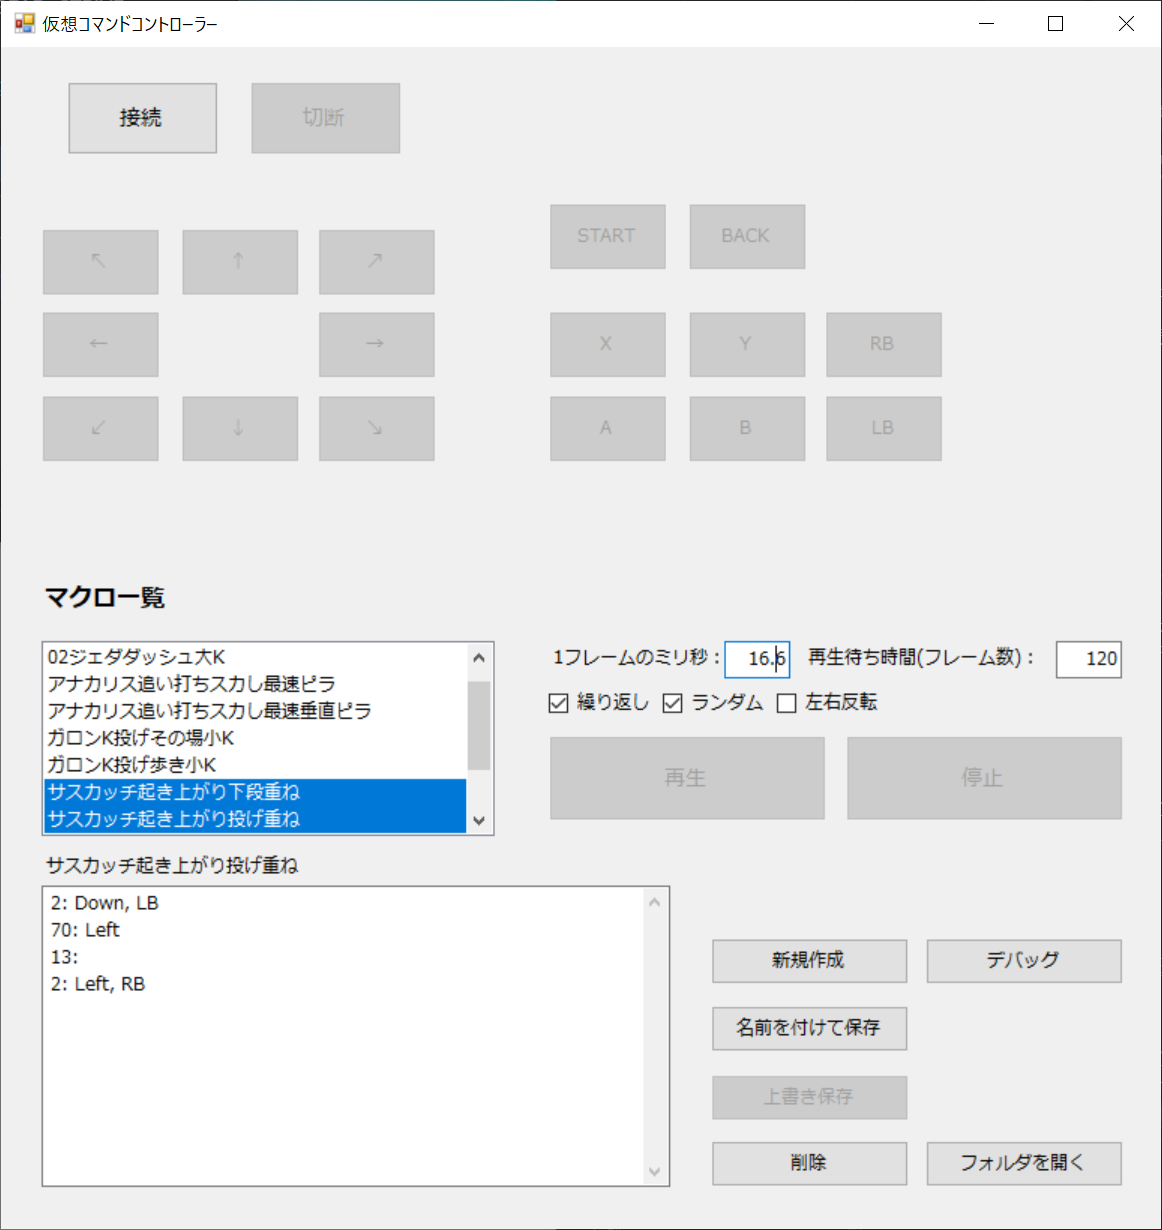
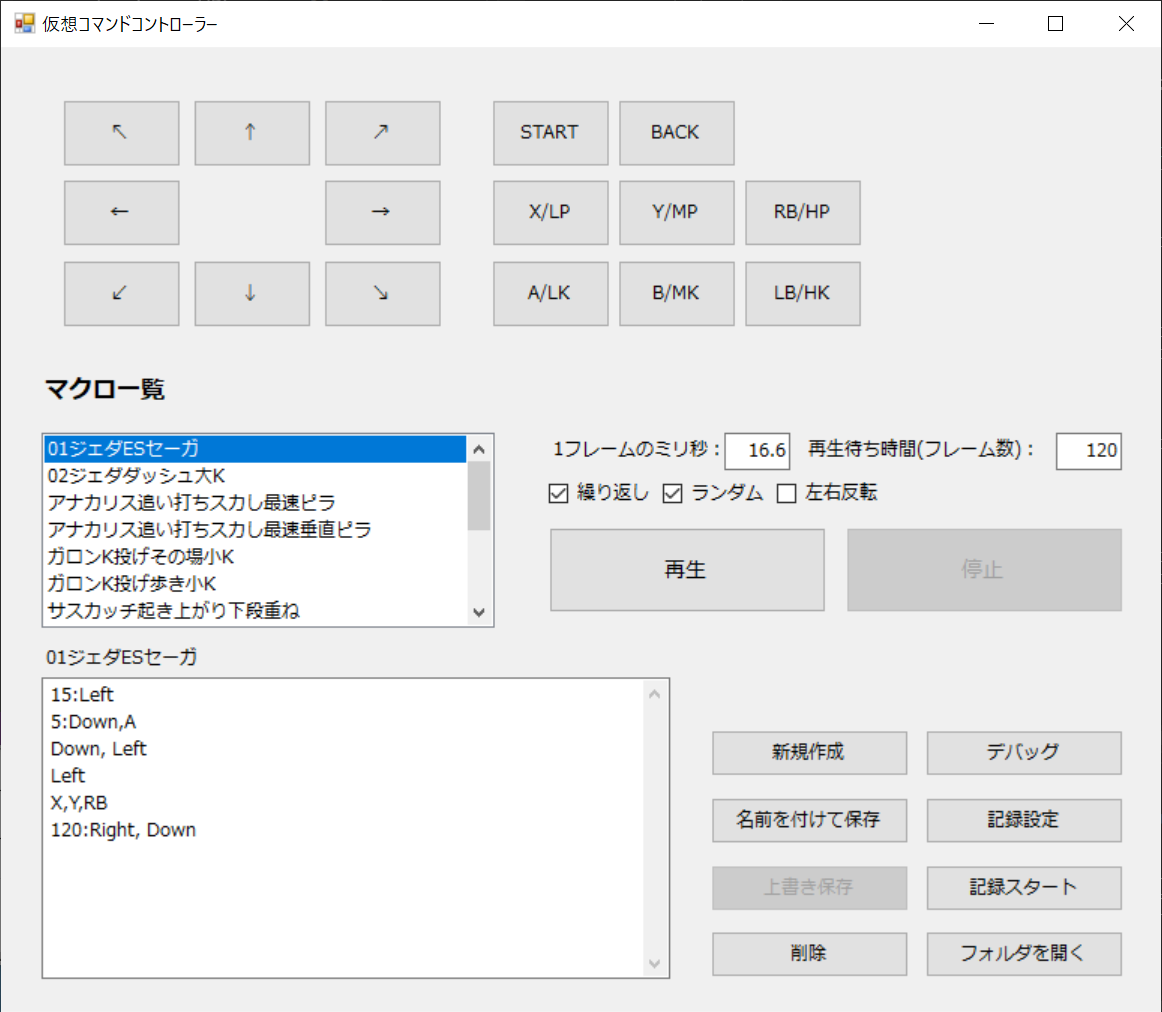
トリガー機能を追加

diff --git a/RecordSettingsForm.cs b/RecordSettingsForm.cs
@@ -32,10 +32,14 @@ namespace VirtualController
         private const string ConfigFilePath = "RecordSettingsConfig.json";
 
         // 変更後: private class RecordSettingsConfig
+        [DataContract]
         public class RecordSettingsConfig
         {
+            [DataMember]
             public Guid ControllerGuid;
+            [DataMember]
             public Dictionary<string, int?> ButtonIndices = new Dictionary<string, int?>();
+            [DataMember]
             public Dictionary<string, int?> ZValues = new Dictionary<string, int?>();
         }
 
@@ -45,8 +49,6 @@ namespace VirtualController
             SetActionButtonsEnabled(false);
             OKButton.Enabled = false;
             LoadPhysicalControllers();
-            ControllerComboBox.SelectedIndexChanged += ControllerComboBox_SelectedIndexChanged;
-            OKButton.Click += OKButton_Click;
             LoadConfig(); // 追加: 設定ファイルから復元
         }
 
@@ -104,7 +106,7 @@ namespace VirtualController
             LogTextBox.AppendText($"[{DateTime.Now:HH:mm:ss}] コントローラー「{device.InstanceName}」に接続しました。\r\n");
 
             var timer = new Timer();
-            timer.Interval = 100;
+            timer.Interval = 1000 / 60 * 2; // 2フレームに1回
             timer.Tick += (s, ev) =>
             {
                 try
@@ -212,8 +214,12 @@ namespace VirtualController
                     {
                         assignedButtonIndices[kvp.Key] = null;
                         assignedZValues[kvp.Key] = null;
-                        // ラベルも未割り当て表示に
-                        var label = Controls.OfType<Label>().FirstOrDefault(l => l.Name == kvp.Key.Name.Replace("Button", "Label"));
+                        Control labelParent;
+                        if (kvp.Key == F1Button)
+                            labelParent = OptionGroupBox;
+                        else
+                            labelParent = this;
+                        var label = labelParent.Controls.OfType<Label>().FirstOrDefault(l => l.Name == kvp.Key.Name.Replace("Button", "Label"));
                         if (label != null) label.Text = "未割り当て";
                     }
                 }
@@ -227,7 +233,12 @@ namespace VirtualController
                     {
                         assignedButtonIndices[kvp.Key] = null;
                         assignedZValues[kvp.Key] = null;
-                        var label = Controls.OfType<Label>().FirstOrDefault(l => l.Name == kvp.Key.Name.Replace("Button", "Label"));
+                        Control labelParent;
+                        if (kvp.Key == F1Button)
+                            labelParent = OptionGroupBox;
+                        else
+                            labelParent = this;
+                        var label = labelParent.Controls.OfType<Label>().FirstOrDefault(l => l.Name == kvp.Key.Name.Replace("Button", "Label"));
                         if (label != null) label.Text = "未割り当て";
                     }
                 }
@@ -236,7 +247,14 @@ namespace VirtualController
             if (listeningButton != null)
             {
                 listeningButton.BackColor = SystemColors.Control;
-                listeningLabel.Text = displayText;
+                Control labelParent;
+                if (listeningButton == F1Button)
+                    labelParent = OptionGroupBox;
+                else
+                    labelParent = this;
+                var label = labelParent.Controls.OfType<Label>().FirstOrDefault(l => l.Name == listeningButton.Name.Replace("Button", "Label"));
+                if (label != null)
+                    label.Text = displayText;
                 assignedButtonIndices[listeningButton] = buttonIndex;
                 assignedZValues[listeningButton] = zValue;
             }
@@ -307,7 +325,10 @@ namespace VirtualController
             RecordSettingsConfig config;
             using (var fs = new FileStream(ConfigFilePath, FileMode.Open))
             {
-                var serializer = new DataContractJsonSerializer(typeof(RecordSettingsConfig));
+                var serializer = new DataContractJsonSerializer(
+                    typeof(RecordSettingsConfig),
+                    new DataContractJsonSerializerSettings { UseSimpleDictionaryFormat = true }
+                );
                 config = (RecordSettingsConfig)serializer.ReadObject(fs);
             }
 
@@ -325,7 +346,15 @@ namespace VirtualController
             {
                 assignedButtonIndices[btn] = config.ButtonIndices.ContainsKey(btn.Name) ? config.ButtonIndices[btn.Name] : null;
                 assignedZValues[btn] = config.ZValues.ContainsKey(btn.Name) ? config.ZValues[btn.Name] : null;
-                var label = Controls.OfType<Label>().FirstOrDefault(l => l.Name == btn.Name.Replace("Button", "Label"));
+
+                System.Diagnostics.Debug.WriteLine(
+                    $"ボタン: {btn.Name}, ButtonIndex: {assignedButtonIndices[btn]}, ZValue: {assignedZValues[btn]}"
+                );
+
+                Control labelParent = btn == F1Button ? (Control)OptionGroupBox : (Control)this;
+                var labelName = btn.Name.Replace("Button", "Label");
+                var label = labelParent.Controls.OfType<Label>().FirstOrDefault(l => l.Name == labelName);
+
                 if (label != null)
                 {
                     if (assignedButtonIndices[btn] != null)

diff --git a/MainForm.cs b/MainForm.cs
@@ -37,13 +37,12 @@ namespace VirtualController
         private MacroPlayer macroPlayer;
         private SharpDX.DirectInput.DirectInput directInput;
         private SharpDX.DirectInput.Joystick currentJoystick;
+        private RecordSettingsForm.RecordSettingsConfig recordConfig;
 
         // MainForm クラス内フィールド追加
         private bool isRecording = false;
         private List<Dictionary<string, string>> recordedFrames = new List<Dictionary<string, string>>();
-        private System.Windows.Forms.Timer recordTimer;
         private DateTime recordStartTime;
-        private RecordSettingsForm.RecordSettingsConfig recordConfig;
 
         /// <summary>
         /// 必要なデザイナー変数です。
@@ -77,12 +76,14 @@ namespace VirtualController
             LoadMacroList();
         }
 
+        // --- 1. 起動時（Form1_Load）で設定ファイルを読み込む ---
         private void Form1_Load(object sender, EventArgs e)
         {
             // --- Form1_Loadでコントローラ操作ボタンを有効化 ---
             this.SetControllerButtonsEnabled(true); // ← 常に有効化
             PlayMacroButton.Text = "再生";
             LoadMacroSettings();
+            recordConfig = LoadRecordSettingsConfig(); // ← 追加
             if (IsRecordSettingsValid())
             {
                 ConnectRecordController();
@@ -134,6 +135,7 @@ namespace VirtualController
                 OverwriteMacro();
             }
 
+
             // UI制御
             PlayMacroButton.Enabled = false;
             PlayMacroButton.Text = "再生中...";
@@ -174,7 +176,9 @@ namespace VirtualController
                         isRandom,
                         XAxisReverseCheckBox.Checked,
                         frame,
-                        token
+                        token,
+                        currentJoystick,
+                        recordConfig
                     );
                 }
                 finally
@@ -898,6 +902,7 @@ namespace VirtualController
                 var result = dlg.ShowDialog(this);
                 if (result == DialogResult.OK)
                 {
+                    recordConfig = LoadRecordSettingsConfig(); // ← 追加
                     if (IsRecordSettingsValid())
                     {
                         ConnectRecordController();
@@ -995,18 +1000,7 @@ namespace VirtualController
                     MessageBox.Show("記録設定が不正です。", "エラー", MessageBoxButtons.OK, MessageBoxIcon.Error);
                     return;
                 }
-
-                // 設定ファイル読み込み
-                var configPath = Path.Combine(Application.StartupPath, "RecordSettingsConfig.json");
-                using (var fs = new FileStream(configPath, FileMode.Open))
-                {
-                    var serializer = new System.Runtime.Serialization.Json.DataContractJsonSerializer(
-                        typeof(RecordSettingsForm.RecordSettingsConfig),
-                        new System.Runtime.Serialization.Json.DataContractJsonSerializerSettings { UseSimpleDictionaryFormat = true }
-                    );
-                    recordConfig = (RecordSettingsForm.RecordSettingsConfig)serializer.ReadObject(fs);
-                }
-
+                // recordConfig = LoadRecordSettingsConfig(); ← 削除
                 recordedFrames.Clear();
                 recordStartTime = DateTime.Now;
                 int frameMs = 16;
@@ -1242,6 +1236,21 @@ namespace VirtualController
                     LoadMacroList();
                     MessageBox.Show("保存しました。", "保存完了", MessageBoxButtons.OK, MessageBoxIcon.Information);
                 }
+            }
+        }
+
+        // --- 1. 設定ファイル読み込み関数を追加 ---
+        private RecordSettingsForm.RecordSettingsConfig LoadRecordSettingsConfig()
+        {
+            var configPath = Path.Combine(Application.StartupPath, "RecordSettingsConfig.json");
+            if (!File.Exists(configPath)) return null;
+            using (var fs = new FileStream(configPath, FileMode.Open))
+            {
+                var serializer = new System.Runtime.Serialization.Json.DataContractJsonSerializer(
+                    typeof(RecordSettingsForm.RecordSettingsConfig),
+                    new System.Runtime.Serialization.Json.DataContractJsonSerializerSettings { UseSimpleDictionaryFormat = true }
+                );
+                return (RecordSettingsForm.RecordSettingsConfig)serializer.ReadObject(fs);
             }
         }
     }

diff --git a/RecordSettingsForm.Designer.cs b/RecordSettingsForm.Designer.cs
@@ -208,6 +208,7 @@
             this.OKButton.TabIndex = 29;
             this.OKButton.Text = "設定完了";
             this.OKButton.UseVisualStyleBackColor = true;
+            this.OKButton.Click += new System.EventHandler(this.OKButton_Click);;
             // 
             // ControllerComboBox
             // 
@@ -217,6 +218,7 @@
             this.ControllerComboBox.Name = "ControllerComboBox";
             this.ControllerComboBox.Size = new System.Drawing.Size(998, 41);
             this.ControllerComboBox.TabIndex = 31;
+            this.ControllerComboBox.SelectedIndexChanged += new System.EventHandler(this.ControllerComboBox_SelectedIndexChanged);
             // 
             // LogTextBox
             // 
@@ -269,6 +271,7 @@
             this.F1Button.TabIndex = 35;
             this.F1Button.Text = "F1";
             this.F1Button.UseVisualStyleBackColor = true;
+            this.F1Button.Click += new System.EventHandler(this.F1Button_Click);
             // 
             // RecordSettingsForm
             // 

diff --git a/README.md b/README.md
@@ -3,9 +3,9 @@
 ## 概要
 仮想コマンドコントローラーは、PC上で仮想Xbox 360コントローラーを操作し、マクロ再生やボタン入力を自動化できるWindowsアプリケーションです。
 
-Steam版のファイコレ等のトレモ機能を補完するために作成しました。作者はヴァンパイアセイヴァーで利用していますが、他のゲームにも応用は可能かと思います。
+Steam版のファイコレ等のトレモ機能を補完するために作成しました。作者はヴァンパイアセイヴァーで利用していますが、他のゲームにも応用は可能かと思います（理論上はコントローラーを使うものなら何でも）。
 
-ただし、自分用に作成したものなのであまり細かいサポートや対応は期待しないでください。ご自身で試してみて、使える方に利用を推奨します。
+ただし、自分用に作成したものなので、かなり適当な部分もあり、あまり細かいサポートや対応は期待しないでください。ご自身で試してみて、使える方に利用を推奨します。
 
 ---
 
@@ -20,10 +20,11 @@ Steam版のファイコレ等のトレモ機能を補完するために作成し
 - マクロファイルによるコントローラー操作の自動再生
 - マクロ編集・保存・削除
 - 複数マクロの管理・選択
-- コントローラーの接続・切断
 - UIからの手動ボタン・スティック操作
 - マクロ再生時の繰り返し・ランダム再生・待機フレーム指定
 - 設定の保存・復元（フレーム速度、待機、選択マクロ等）
+- マクロ記録機能
+- マクロ条件付き再生機能
 
 ---
 
@@ -44,16 +45,16 @@ Steam版のファイコレ等のトレモ機能を補完するために作成し
 
 ---
 
-## 使い方
+## 基本的な使い方
 
 1. ゲームをトレーニングモードで起動し、「DUMMY OPTION」にて「アクション」を「PLAYER操作」にします。
 <img src="docs/images/setting_01_action.png" alt="アクション" width="400">
 
-2. 仮想コマンドコントローラーを移動し、「接続」ボタンを押して仮想コントローラーを接続します。
-<img src="docs/images/setting_02_connect.png" alt="接続" width="400">
+2. 仮想コマンドコントローラーを起動します。
+<img src="docs/images/setting_02_connect.png" alt="起動" width="400">
 
 3. 画面上部のコントローラーUIで、ボタンや方向キーなどを操作するとゲーム内で正常に接続されたアナウンスが出ます。
-<img src="docs/images/setting_03_connect2.png" alt="接続2" width="400">
+<img src="docs/images/setting_03_connect2.png" alt="接続" width="400">
 
 4. 画面上部のコントローラーUIで、「BACK」ボタンを押して「CONTROLLER SETTINGS」を開きボタンを割り当ててください。
 <img src="docs/images/setting_04_key.png" alt="ボタン設定" width="400">
@@ -65,6 +66,18 @@ Steam版のファイコレ等のトレモ機能を補完するために作成し
 <img src="docs/images/setting_05_play.png" alt="再生" width="400">
 
 ---
+
+## マクロの作成方法
+
+手動で作成する方法と、マクロ記録機能を使う方法があります。マクロ記録機能を使ってベースを作成し、手動で微調整するのが楽かと思います。
+
+1. 画面右下の「記録設定」ボタンを押すと、記録設定画面が開きます。
+<img src="docs/images/setting_06_record.png" alt="記録" width="400">
+
+2. 記録設定画面の案内に従って、別のコントローラーを選択して、各種ボタンを割り当ててください。
+※F1キーは、トレモの位置リセットボタンを割り当てると便利です。
+
+3. 設定が終わったら、「記録スタート」ボタンを押し、ゲームに戻って設定したコントローラーで操作してください。再度ボタンを押すと記録が停止します。
 
 ## マクロファイル仕様
 
@@ -80,7 +93,7 @@ Steam版のファイコレ等のトレモ機能を補完するために作成し
 - `#`から始まる行はコメントとして無視されます（行末コメントは非対応です）
 - ゲーム内のフレームと同期しているわけではないので、1フレームで定義すると認識されない場合があるので、2フレーム以上で指定することを推奨します。
 - 現状はマクロの作成は非常に面倒です。前後1フレームずれることを意識しつつ、うまく動くかどうか試行錯誤してください（フレームの知識も必要です）。
-
+- 特殊な仕様としてトリガー機能があります。次のセクションで詳しく説明します。
 
 例）サスカッチの大足でダウンさせて起き上がりに投げをするマクロ（キャラごとに起き上がりスピードが違うので待ちフレームは調整する必要があります。例はザベル相手）
 ```
@@ -92,19 +105,77 @@ Steam版のファイコレ等のトレモ機能を補完するために作成し
 
 ---
 
+## マクロファイル仕様（トリガー機能）β版
+
+特定のキーをトリガーにしてマクロを再生することができます（この機能はβ版のため仕様が変更される可能性があります）。
+マクロの先頭にコメントで `TRIGGER:`を追加してキーを指定します。
+
+```
+#TRIGGER: HK
+40:
+2: Left
+2: Down
+2: Down, Left, LP
+```
+
+このマクロは、プレイヤー側が大キックを押したら起き上がりに昇竜を出すというものです（フレームは適当）。
+
+
+また、`TRIGGERWAIT:` でトリガー待機中にガードを入れておくこともできますので、ガード後に最速で技を出すといった使い方も可能です。
+
+```
+#TRIGGER: LP
+#TRIGGERWAIT: Down, Right
+10:
+2: HP
+```
+
+応用として位置リセットボタンをトリガーにして、特定の位置からの行動を自動化することもできます。
+
+
+例）左画面端にリセットしたらダミーは前ジャンプして位置を入れ替える
+```
+#TRIGGER: F1
+2:
+2: Up, Right
+34:
+20:Left
+```
+
+上記のマクロに以下のマクロを一緒に再生すると、位置リセット後に自動で前ジャンプして位置を入れ替え、ジャンプすると空対空が飛んできて裏周りしてきます。色々応用が効くと思うので頑張ってください。
+
+```
+#TRIGGER: UP
+2: UP, Left
+10:
+2: LP
+34:
+8: Left
+2: Down, LK
+```
+
+---
+
+
 ## FAQ
 
-- Q: 仮想コマンドコントローラーを触るとゲームが非アクティブになって操作できないのですが？
-  A: Steam入力が有効になっている可能性があります。Steam上のゲーム画面で「プレイ」ボタンの右端にでコントローラーのボタンがあるので、そこでSteam入力を無効にしてください。
-- Q: マクロファイルをコピーしたいのですが？
-  A: 編集中のマクロを名前を付けて保存するとコピーができます。大量のコピーを作りたい場合は、エクスプローラーで `macros` フォルダ内のファイルをコピーしてください。
-- Q: ちゃんとマクロ通りに動いているか確認したいのですが？
-  A: 仮想コマンドコントローラーから1Pで接続してゲームを開始すればキーログもでて動作確認できます。難しいコンボなんかも作れるはずなのでお試しください。
+Q: 見た目がださいんですが？
+A: 仕様です。
+
+Q: 仮想コマンドコントローラーを触るとゲームが非アクティブになって操作できないのですが？
+A: Steam入力が有効になっている可能性があります。Steam上のゲーム画面で「プレイ」ボタンの右端にでコントローラーのボタンがあるので、そこでSteam入力を無効にしてください。
+
+Q: マクロファイルをコピーしたいのですが？
+A: 編集中のマクロを名前を付けて保存するとコピーができます。大量のコピーを作りたい場合は、エクスプローラーで `macros` フォルダ内のファイルをコピーしてください。
+
+Q: ちゃんとマクロ通りに動いているか確認したいのですが？
+A: 仮想コマンドコントローラーから1Pで接続してゲームを開始すればキーログもでて動作確認できます。難しいコンボなんかも作れるはずなのでお試しください。
 
 ## 既知の問題
 
 - マクロを編集後に保存せずに再生ボタンを押すと、自動で上書き保存するんですが、再生が止まってしまうのでそのままもう一回再生ボタンを押してください。
 - 各種ボタンの有効、無効が正しく反映されない可能性があります。
+- あとたぶん他にもたくさんバグがあるのでここにないバグは気が向いたら報告してください。
 
 ## 注意事項
 
@@ -124,8 +195,6 @@ ViGEmBus（BSD-3-Clauseライセンス）を利用しています。
 
 ## 今後の予定（気が向いたらやります。やらない可能性もあり）
 
-- マクロの記録機能
-- 相手の起き上がり行動を指定するためのトリガー機能（特定のボタンをトリガーにしてマクロ再生）
 - 入力の正確性を計測する機能（AG入力が正しい順序、フレームで入力できているかなどを計る）
 
 ---
